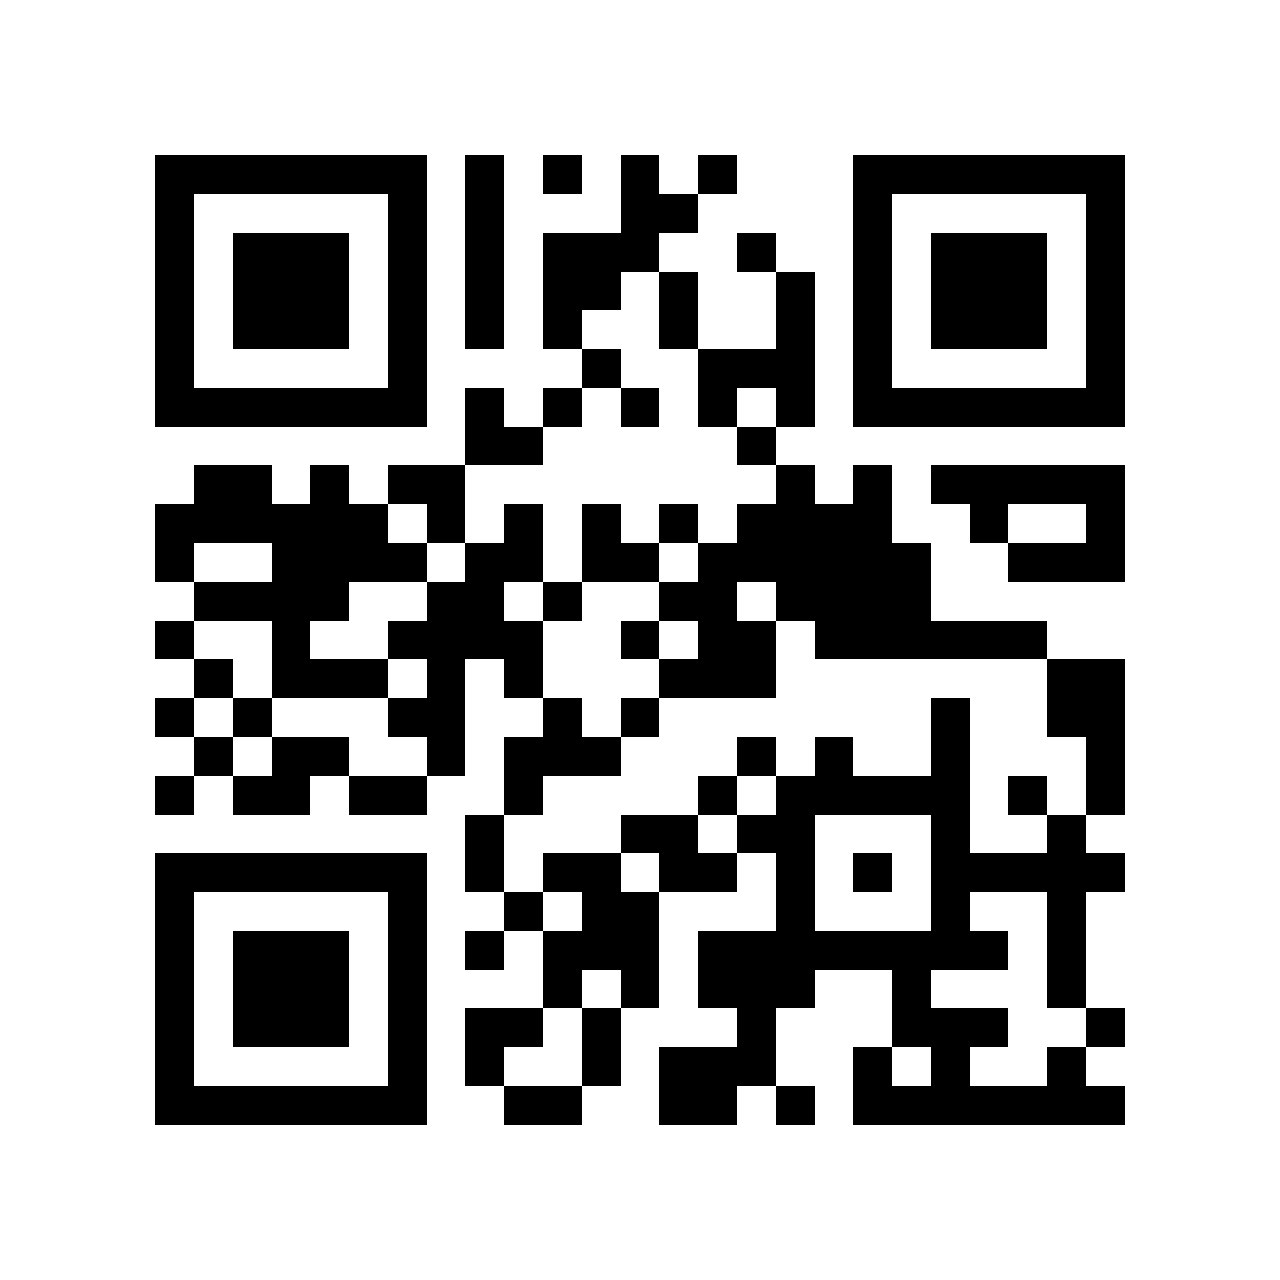
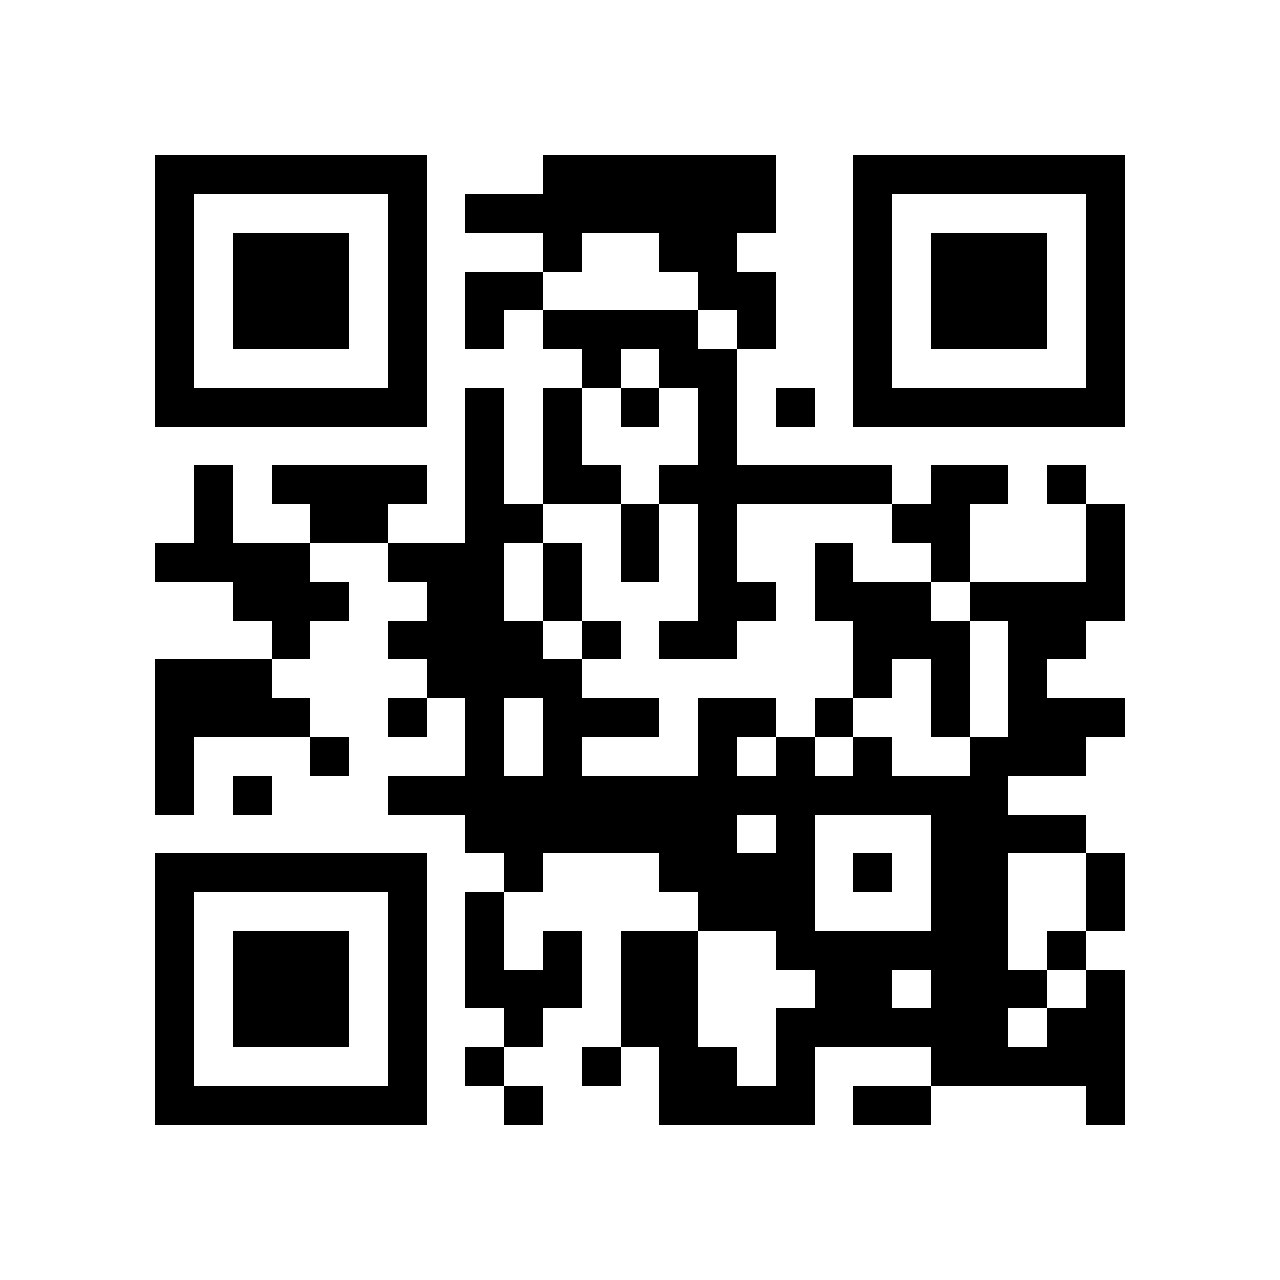
Добавлен счётчик учеников

Changed region(s): [[0.0938, 0.125, 0.9062, 0.9062], [0.4062, 0.8438, 0.4688, 0.875]]

diff --git a/Services/TgService.cs b/Services/TgService.cs
@@ -27,6 +27,7 @@ namespace Tagger.Services
         
         private readonly DynamicRequestsStore<long> _requests = new DynamicRequestsStore<long>();
         private readonly DynamicTokensStore _tokens = new DynamicTokensStore();
+        private readonly DynamicCounterStore _counters = new DynamicCounterStore();
         private string GenerateToken(int length)
         {
             var random = new Random();
@@ -214,7 +215,8 @@ namespace Tagger.Services
                 {
                     if (await MasterValidator(message))
                     {
-                        await SendGenQr(message.Chat.Id);
+                        _counters.Add(message.Chat.Id);
+                        await SendGenQr(message.Chat.Id,_counters.Get(message.Chat.Id));
                     }
                     break;
                 }
@@ -373,6 +375,7 @@ namespace Tagger.Services
                     if (teacherId == message.Chat.Id)
                     {
                         _tokens.Remove(_tkn);
+                        _counters.Remove(message.Chat.Id);
                         _botClient.SendMessage(
                             chatId: message.Chat.Id,
                             text: "Вы закончили перекличку, токены удалены <3"
@@ -396,7 +399,8 @@ namespace Tagger.Services
                             chatId: message.Chat.Id,
                             text: "Вы отмечены, хорошего дня)"
                         );
-                        await SendGenQr(teacherId);
+                        _counters.Push(teacherId);
+                        await SendGenQr(teacherId,_counters.Get(teacherId));
                     }
 
                     return;
@@ -429,14 +433,14 @@ namespace Tagger.Services
             await _botClient.SendPhoto(teacherId, inputFfile);
         }*/
         
-        private async Task SendGenQr(long teacherId)
+        private async Task SendGenQr(long teacherId, int? counter)
         {
             var _nexttkn = GenerateToken(12);
             _tokens.Add(_nexttkn, teacherId);
 
             MemoryStream streamchek = new MemoryStream(qrService.GenerateQr(_nexttkn,40));
             var inputFfile = new InputFileStream(streamchek, Path.GetFileName(_genqrpath));
-            await _botClient.SendPhoto(teacherId, inputFfile);
+            await _botClient.SendPhoto(teacherId, inputFfile,caption: counter.ToString());
                 
         }
     }

diff --git a/Data/DynamicCounterStore.cs b/Data/DynamicCounterStore.cs
@@ -1,0 +1,44 @@
+namespace Tagger.Data
+{
+    public class DynamicCounterStore
+    {
+        private readonly Dictionary<long, int> _counters = new Dictionary<long, int>();
+        private readonly object _lock = new object();
+
+        public bool Add(long ChatId)
+        {
+            lock (_lock)
+            {
+                return _counters.TryAdd(ChatId, 1);
+            }
+        }
+
+        public int Get(long ChatId)
+        {
+            lock (_lock)
+            {
+                return _counters.GetValueOrDefault(ChatId,0);
+            }
+        }
+        
+        public bool Remove(long ChatId)
+        {
+            lock (_lock)
+            {
+                return _counters.Remove(ChatId);
+            }
+        }
+
+        public bool Push(long ChatId)
+        {
+            lock (_lock)
+            {
+                int i = _counters.GetValueOrDefault(ChatId,0);
+                if (i == 0) return false;
+                i++;
+                _counters[ChatId] = i;
+                return true;
+            }
+        }
+    }
+}
